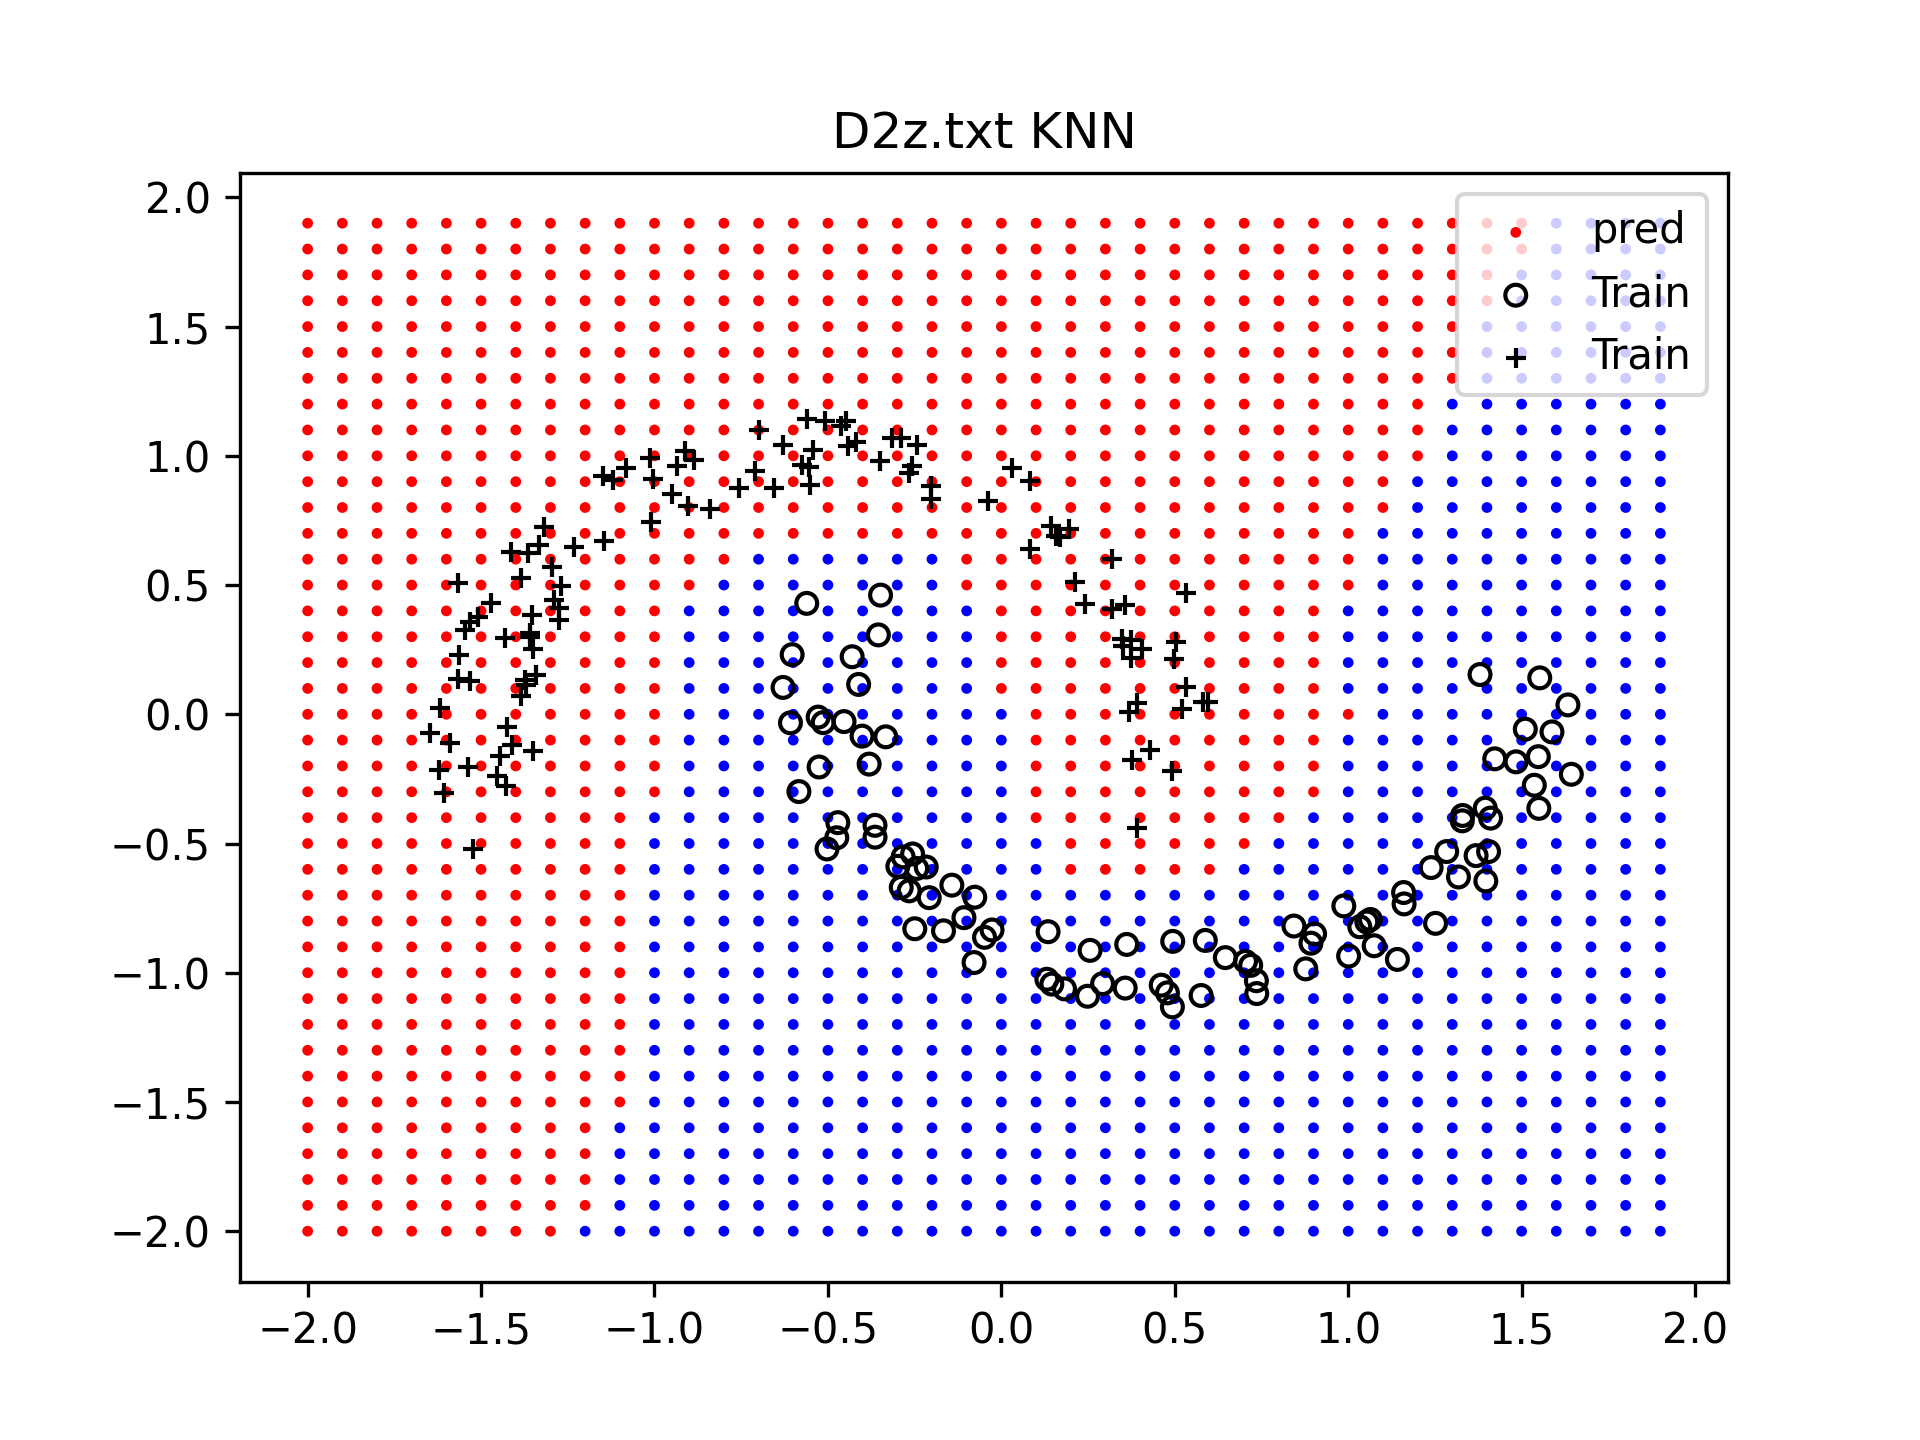
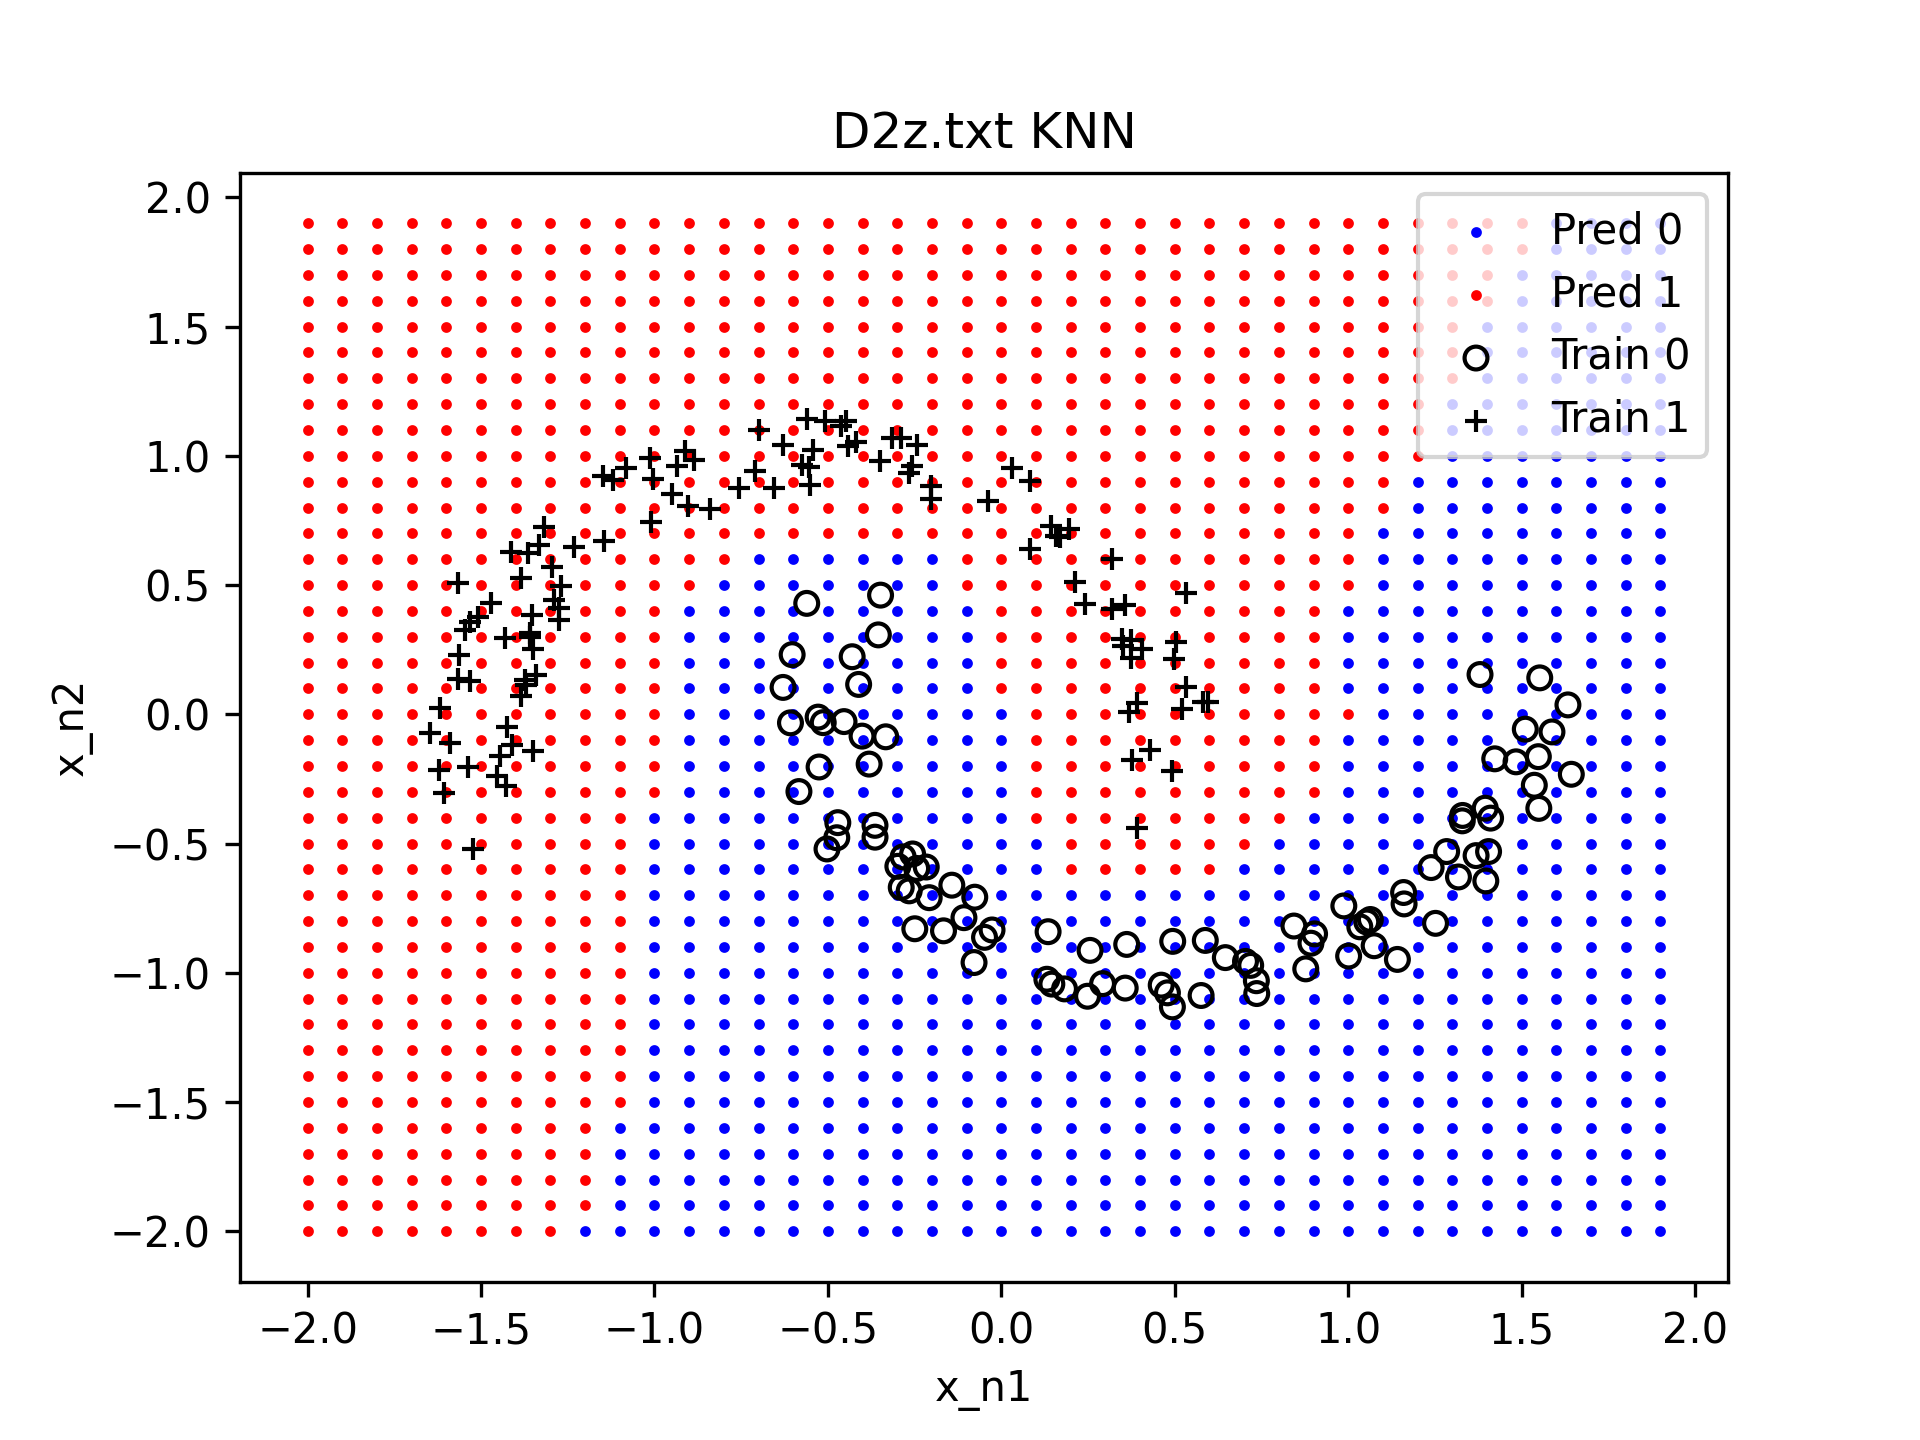
question2_p2 upddate

diff --git a/Py/q2/hw003-q2-p2.py b/Py/q2/hw003-q2-p2.py
@@ -13,34 +13,71 @@ The expected figure looks like this.
 
 """
 import matplotlib.pyplot as plt
+from sklearn.neighbors import KNeighborsClassifier as KNN
+import sklearn.metrics as metrics
 import numpy as np
 import pandas as pd
 import os
 
+# N neighbors
+num_neigh = 1
+
+# Options
+q2_2 = False
+
 # File options
-files = ['D2z.txt','emails.csv']
+file = 'emails.csv'
 
 # read in info
 path_to_data = r'\Data'
 os.chdir(os.getcwd()+path_to_data)
-data = {}
-for file in os.listdir(os.getcwd()):
-    if file[0] == '.': continue
-    if '.csv' in file:
-        data[file]=(pd.read_csv(file))
-    else:
-        data[file]=(pd.read_csv(file, sep=',', names=["x_n1","x_n2","y_n"], index_col=False))
-
-# Defining which data set to use for the code
-df = data[files[1]]
+df=pd.read_csv(file)
 
 # taking off the useless column counters
 for col_name in list(df):
     if 'No.' in col_name:
         df.pop(col_name)
 
-print(df)
+# Seperating test and train data
+# train_df = df[:4000]
+# test_df = df[4000:]
 
-# Organize the data
-def sortData(D, Xi):
-    return D.sort_values(by=Xi).reset_index(drop=True)
+# Creating the folds
+fold_num = 5
+folds = {}
+splits = np.arange(0,len(df),len(df)/fold_num, dtype=int)
+for i, slice in enumerate(splits):
+    cur_fold_num = i+1
+    if i == 0:
+        test_df = df[:slice+splits[1]]
+        train_df = df[slice+splits[1]:]
+    elif i == len(splits):
+        test_df = df[slice:]
+        train_df = df[:slice]
+    else:
+        test_df = df[slice:slice+splits[1]]
+        train_df = df.iloc[np.r_[0:slice, slice+splits[1]:len(df)]]
+    folds[cur_fold_num] = {'test_set': test_df, 'train_set': train_df}
+    # print('test: ',len(folds[cur_fold_num]['test_set']),'train: ',len(folds[cur_fold_num]['train_set']))
+
+fold_analysis = {}
+for fold, data in folds.items():
+    # Creating classifier for the fold
+    knn = KNN(n_neighbors=num_neigh)
+
+    # Training the fold
+    knn.fit(data['train_set'].drop('Prediction', axis=1), data['train_set']['Prediction'])
+
+    # Predicting the fold
+    pred = knn.predict(data['test_set'].drop('Prediction', axis=1))
+
+    # finding the information
+    acc = metrics.accuracy_score(data['test_set']['Prediction'], pred)
+    prec = metrics.precision_score(data['test_set']['Prediction'], pred)
+    recall = metrics.recall_score(data['test_set']['Prediction'], pred)
+    fold_analysis[fold] = {'Fold': fold, 'Accuracy': acc, 'Precision': prec, 'Recall': recall}
+
+# Printing the answers for each fold for question 2.2
+if q2_2:
+    for key, val in  fold_analysis.items():
+        print(val)

diff --git a/Py/q2/hw003-q2-p1.py b/Py/q2/hw003-q2-p1.py
@@ -14,7 +14,6 @@ The expected figure looks like this.
 """
 import matplotlib.pyplot as plt
 from sklearn.neighbors import KNeighborsClassifier as KNN
-from matplotlib.colors import ListedColormap
 import numpy as np
 import pandas as pd
 import os
@@ -45,12 +44,18 @@ prediction_grid = [[x_n1,x_n2] for x_n1 in twodGrid for x_n2 in  twodGrid]
 knn = KNN(n_neighbors=num_neigh)
 knn.fit(x_train, y_train)
 preds = knn.predict(prediction_grid)
+print(np.unique(preds))
 
 # Plotting the predictions
 pred_x_n1 = [elem[0] for elem in prediction_grid]
 pred_x_n2 = [elem[1] for elem in prediction_grid]
-pred_colors = ListedColormap(['blue', 'red'])
-plt.scatter(pred_x_n1, pred_x_n2, c=preds, cmap=pred_colors, s=2.5, label='pred')
+x_pred = pd.DataFrame({'x_n1': pred_x_n1, 'x_n2': pred_x_n2})
+pred_colors = ['blue', 'red']
+for i, y_val in enumerate(np.unique(preds)):
+    plt.scatter(x_pred.loc[preds==y_val, 'x_n1'],
+                x_pred.loc[preds==y_val, 'x_n2'],
+                c=pred_colors[i], s=2.5, label=f'Pred {i}')
+    # plt.scatter(pred_x_n1, pred_x_n2, c=preds, cmap=pred_colors, s=2.5, label='pred')
 
 # Scatter plot for training data
 train_markers = ['o', '+']
@@ -58,8 +63,10 @@ colors = ['None','black']
 for i, y_val in enumerate(y_train['y_n'].unique()):
     plt.scatter(x_train.loc[y_train['y_n']==y_val, 'x_n1'],
                 x_train.loc[y_train['y_n']==y_val, 'x_n2'],
-                c=colors[i], marker=train_markers[i], edgecolors='black' if train_markers[i] != '+' else 'None', linewidths=1, s=25, label=f'Train')
+                c=colors[i], marker=train_markers[i], edgecolors='black' if train_markers[i] != '+' else 'None', linewidths=1, s=30, label=f'Train {i}')
 plt.title("D2z.txt KNN")
+plt.xlabel('x_n1')
+plt.ylabel('x_n2')
 plt.legend()
 
 # Deciding whether to show plot or save it
